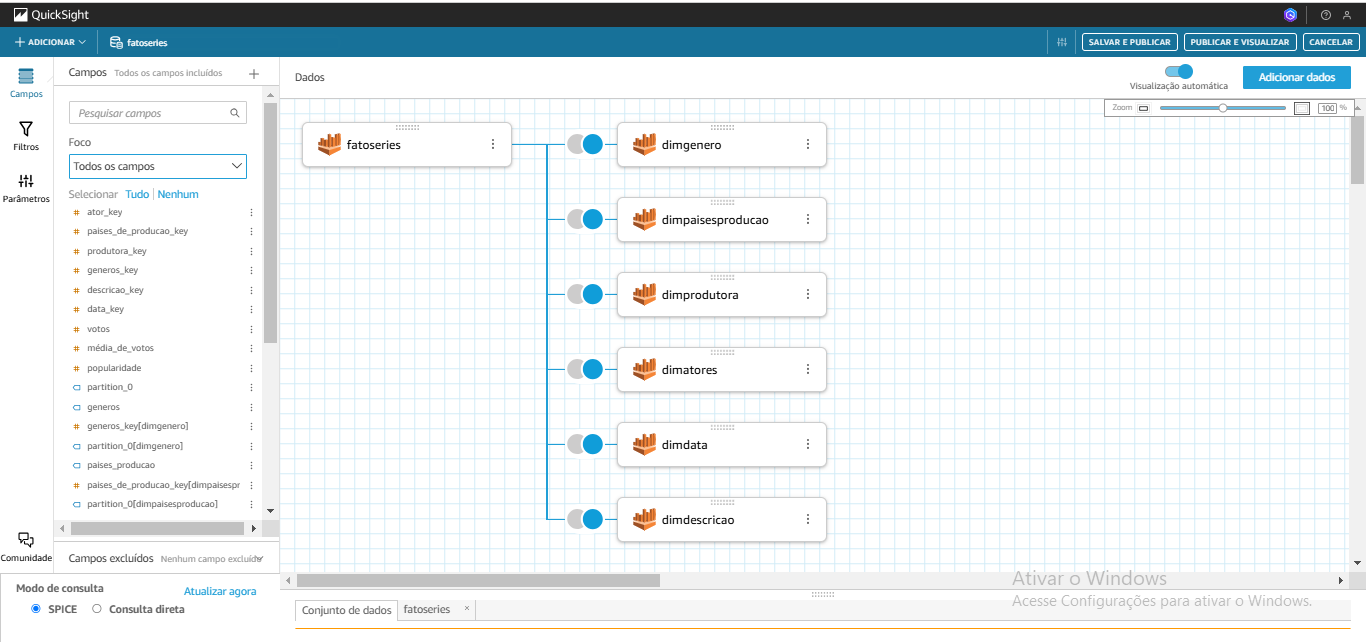
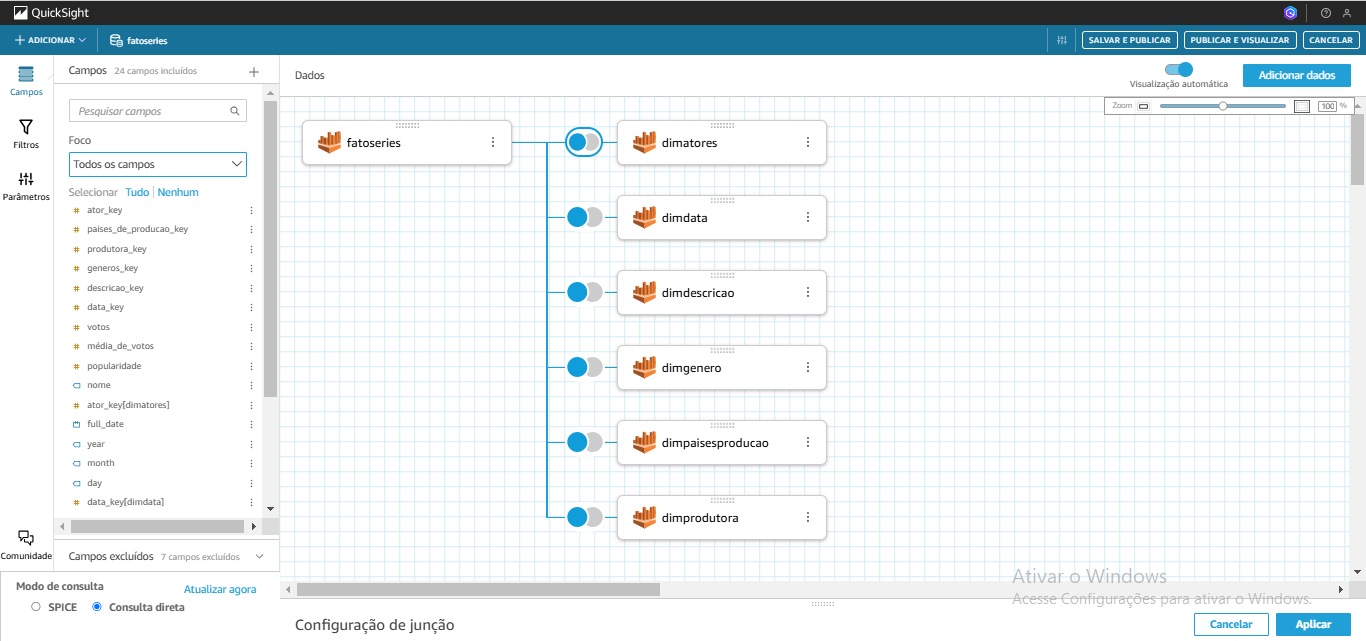
Depositando Sprint 10

diff --git a/Sprint10/desafio/README.md b/Sprint10/desafio/README.md
@@ -105,13 +105,13 @@ Segui essa forma de join para todas as dimensões, e selecionei as chaves PK das
 ![Imagem ](../evidencias/QSEditeModeloRelacoes6.png)
 
 
-Só que, quando fui fazer o dashboard, senti uma dificuldade em criar os gráficos da forma que precisava. E voltei para criar um novo conjunto de dados só que agora com cada join das tabelas com *Right Join*, assim arrumei todos os joins das relações.
+Só que, quando fui fazer o dashboard, senti uma dificuldade em criar os gráficos da forma que precisava. E voltei para criar um novo conjunto de dados só que agora com cada join das tabelas com *Left Join*, já que a chave exclusiva está na tabela de dimensões, assim arrumei todos os joins das relações.
 
 
 ![Imagem ](../evidencias/QSEditeModeloRelacoes.png)
 
 
-Com o termino do ajuste das relações das tabelas, ficaram todas com o tipo de junção *Right Join*.
+Com o termino do ajuste das relações das tabelas, ficaram todas com o tipo de junção *Left Join*.
 
 
 ![Imagem ](../evidencias/QSEditeModeloRelacionado.png)
